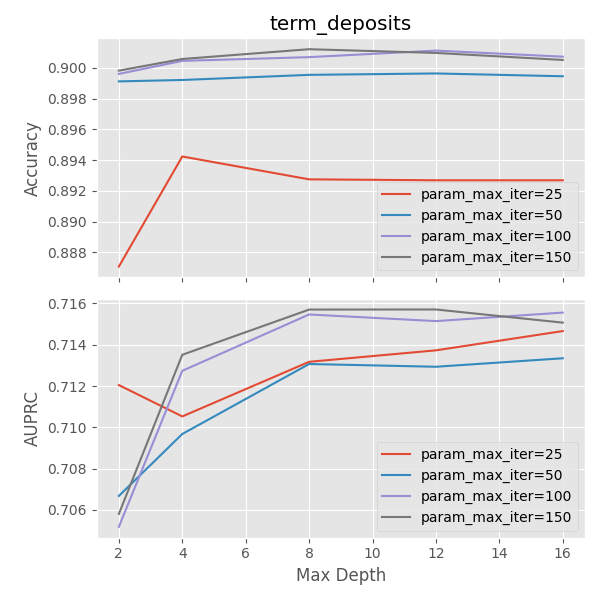
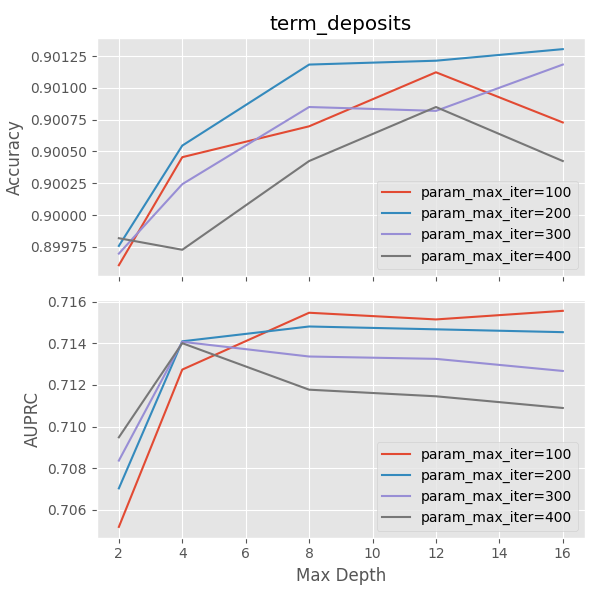
Update ensemble

diff --git a/boosting.py b/boosting.py
@@ -5,7 +5,7 @@ from evaluate import run_trials
 def pruning_trials(dataset):
     MAX_ITER = {
         "credit_score": [100, 200, 300, 400],
-        "term_deposits": [25, 50, 100, 150],
+        "term_deposits": [100, 200, 300, 400],
     }
 
     MAX_DEPTH = {
